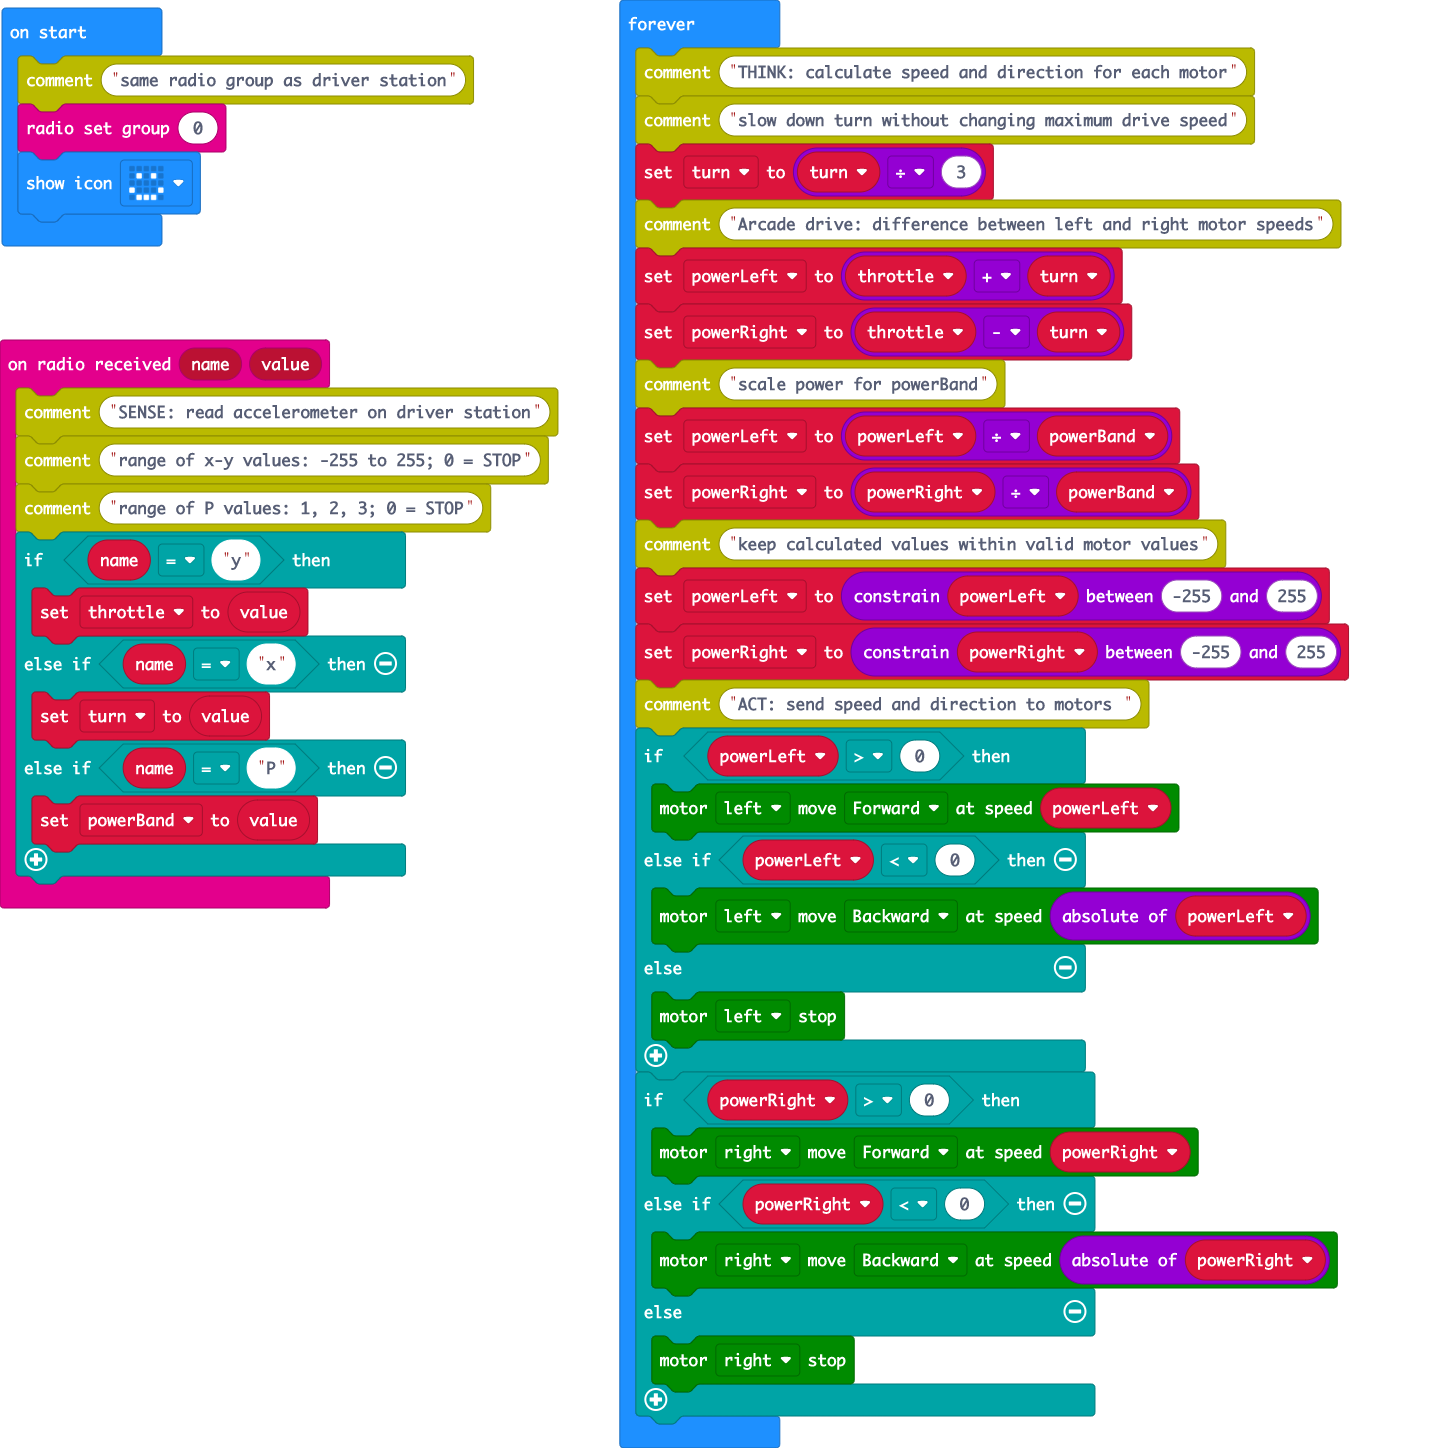
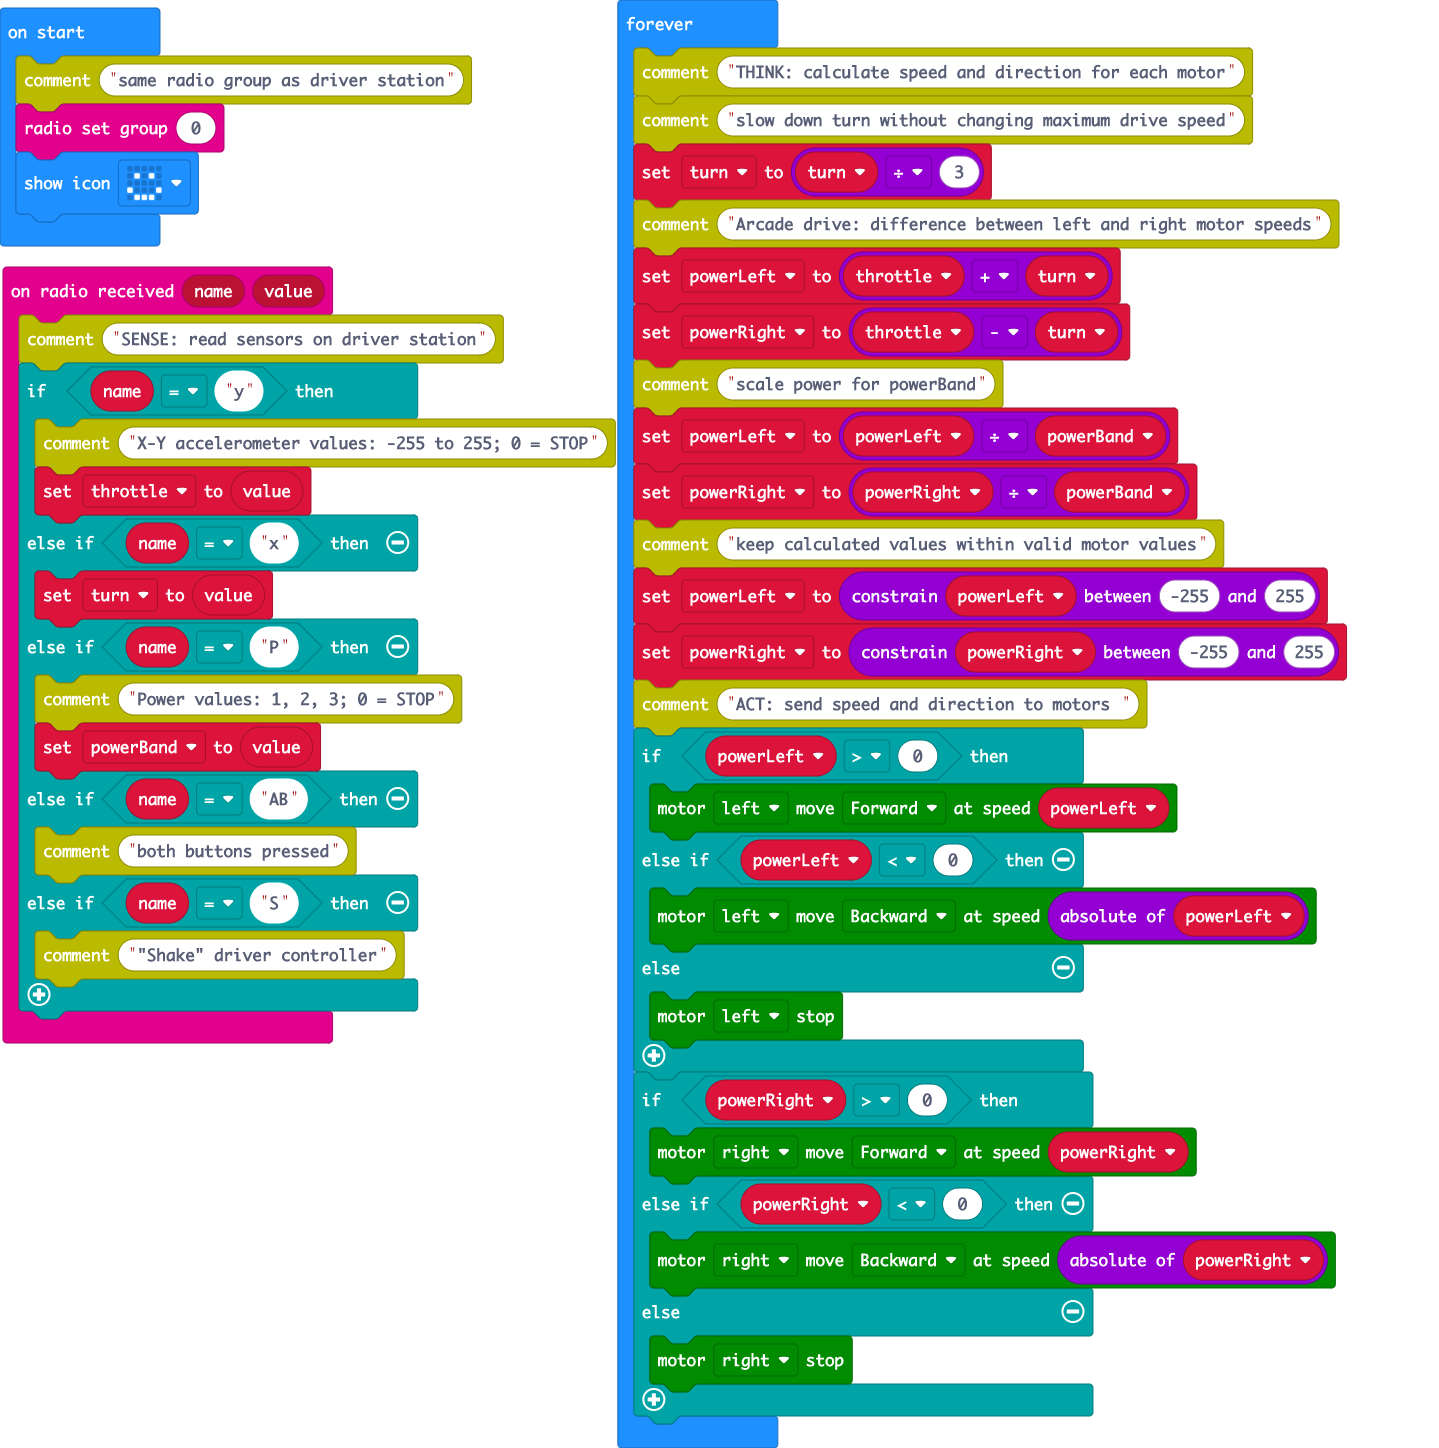
Update pxt.json, main.blocks, main.ts

diff --git a/main.ts b/main.ts
@@ -1,13 +1,17 @@
 radio.onReceivedValue(function (name, value) {
-    comment.comment("SENSE: read accelerometer on driver station")
-    comment.comment("range of x-y values: -255 to 255; 0 = STOP")
-    comment.comment("range of P values: 1, 2, 3; 0 = STOP")
+    comment.comment("SENSE: read sensors on driver station")
     if (name == "y") {
+        comment.comment("X-Y accelerometer values: -255 to 255; 0 = STOP")
         throttle = value
     } else if (name == "x") {
         turn = value
     } else if (name == "P") {
+        comment.comment("Power values: 1, 2, 3; 0 = STOP")
         powerBand = value
+    } else if (name == "AB") {
+        comment.comment("both buttons pressed")
+    } else if (name == "S") {
+        comment.comment("\"Shake\" driver controller")
     }
 })
 let powerRight = 0
